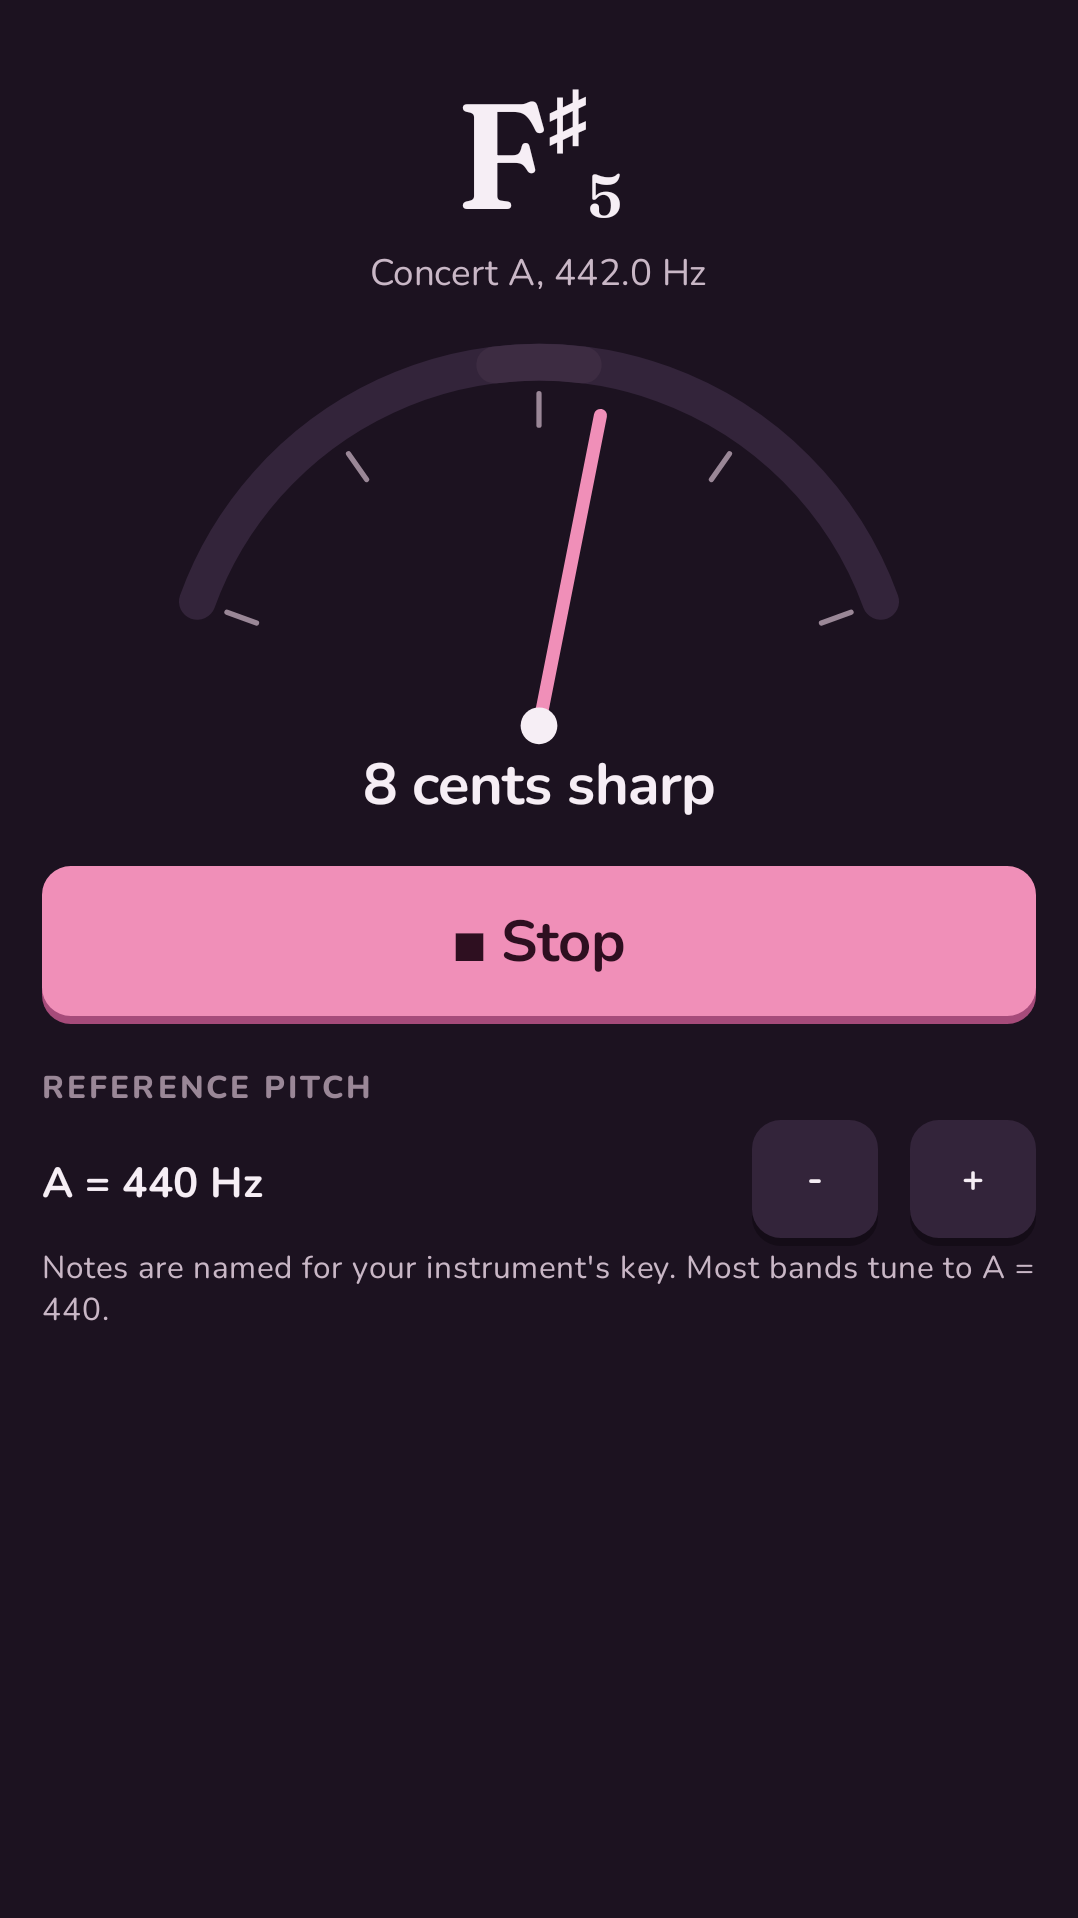
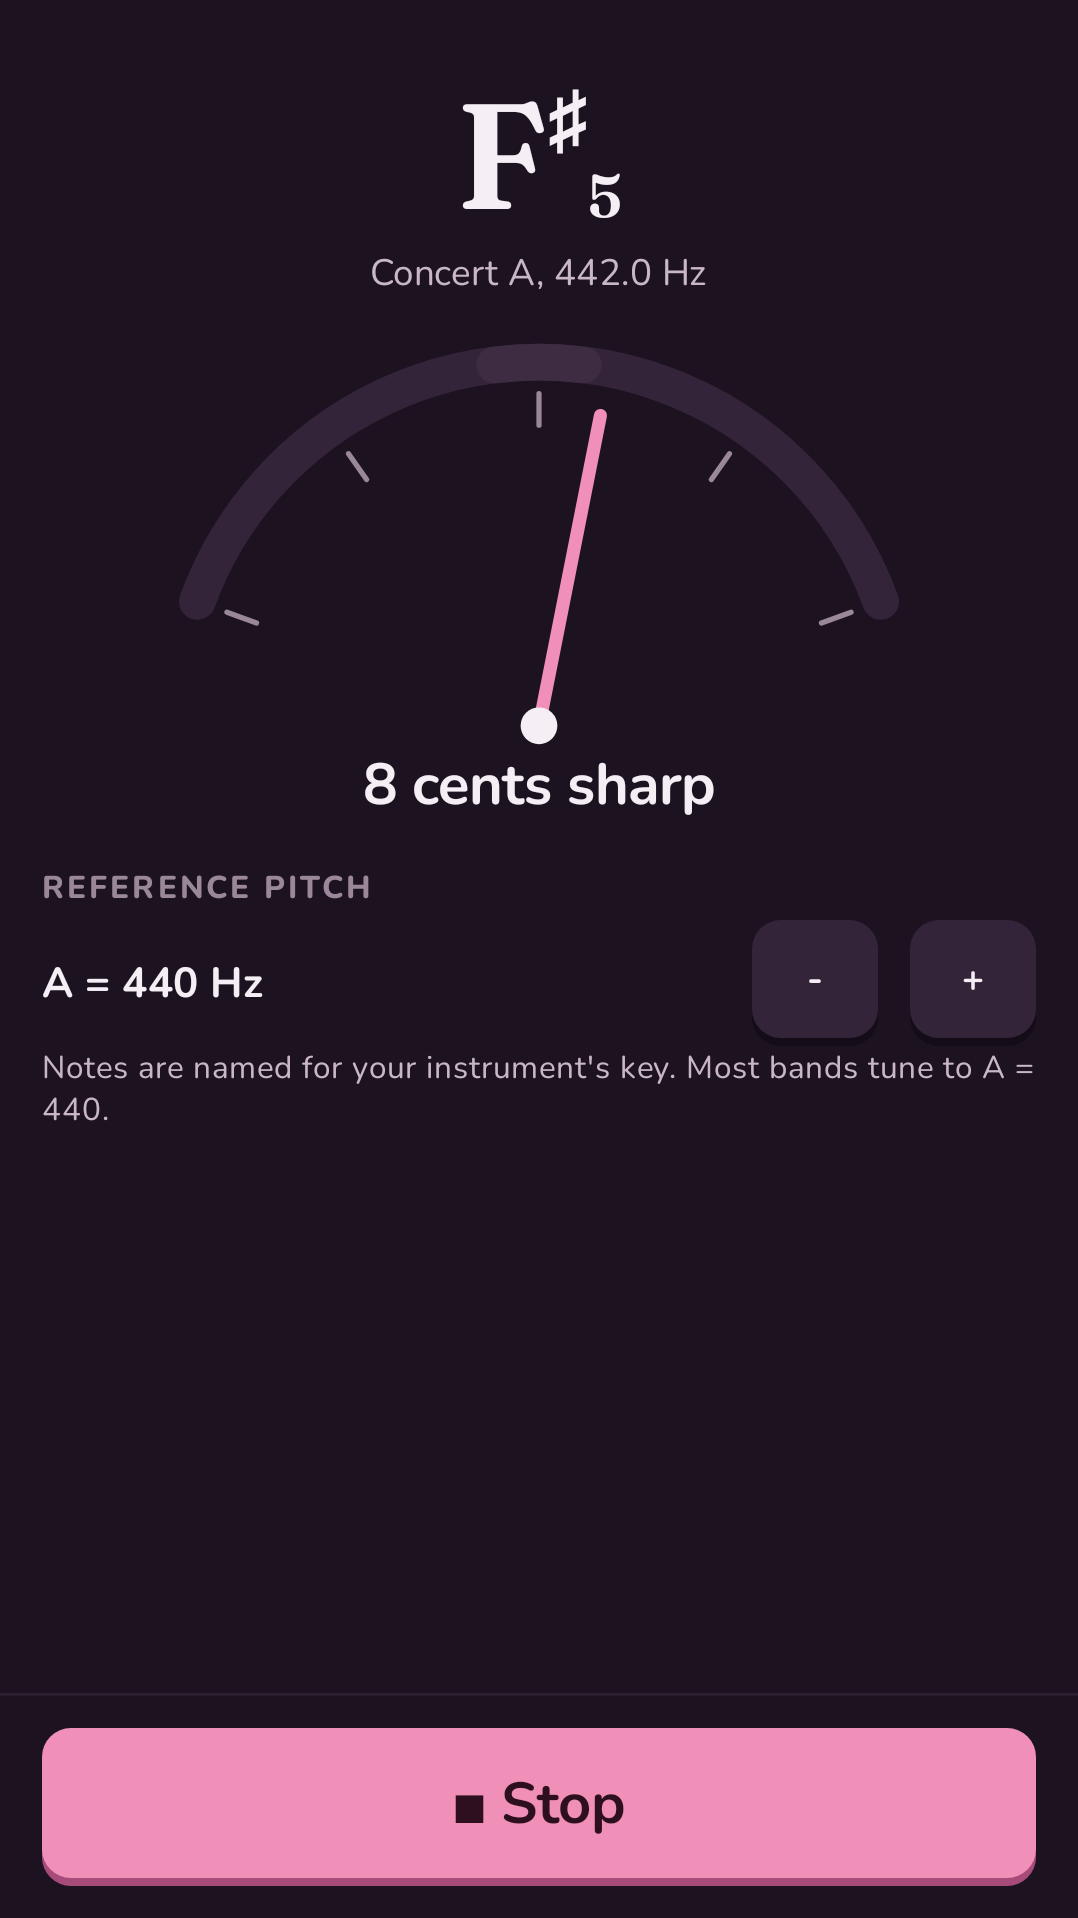
feat(app): fit flip phones' outer screens and keep start in reach

diff --git a/app/src/main/java/com/larakelley/woodshed/ui/browse/BrowseScreen.kt b/app/src/main/java/com/larakelley/woodshed/ui/browse/BrowseScreen.kt
@@ -2,6 +2,7 @@ package com.larakelley.woodshed.ui.browse
 
 import androidx.activity.compose.BackHandler
 import androidx.compose.foundation.Image
+import androidx.compose.foundation.background
 import androidx.compose.foundation.clickable
 import androidx.compose.foundation.horizontalScroll
 import androidx.compose.foundation.layout.Arrangement
@@ -11,6 +12,8 @@ import androidx.compose.foundation.layout.FlowRow
 import androidx.compose.foundation.layout.PaddingValues
 import androidx.compose.foundation.layout.Row
 import androidx.compose.foundation.layout.Spacer
+import androidx.compose.foundation.layout.calculateEndPadding
+import androidx.compose.foundation.layout.calculateStartPadding
 import androidx.compose.foundation.layout.fillMaxSize
 import androidx.compose.foundation.layout.fillMaxWidth
 import androidx.compose.foundation.layout.height
@@ -48,6 +51,9 @@ import androidx.compose.runtime.saveable.rememberSaveable
 import androidx.compose.runtime.setValue
 import androidx.compose.ui.Alignment
 import androidx.compose.ui.Modifier
+import androidx.compose.ui.platform.LocalDensity
+import androidx.compose.ui.platform.LocalLayoutDirection
+import androidx.compose.ui.platform.LocalWindowInfo
 import androidx.compose.ui.platform.testTag
 import androidx.compose.ui.res.painterResource
 import androidx.compose.ui.unit.dp
@@ -187,18 +193,20 @@ fun BrowseScreen(
     }
   }
 
+  // On a short screen, such as a flip phone's outer one, the title bar gives its room to the tab's content and its
+  // controls move to the end of the tab row.
+  val short = with(LocalDensity.current) { LocalWindowInfo.current.containerSize.height.toDp() } < SHORT_SCREEN_DP.dp
+  val barActions: @Composable () -> Unit = {
+    TranspositionPicker(state.transposition, state.myInstruments, onSelectTransposition)
+    if (settings != null) {
+      TextButton(onClick = {
+        settingsOpen = true
+      }, modifier = Modifier.testTag("open-settings")) { Text("⚙", style = MaterialTheme.typography.titleLarge) }
+    }
+  }
   Scaffold(
     modifier = modifier,
-    topBar = {
-      TopAppBar(title = { AppTitle() }, actions = {
-        TranspositionPicker(state.transposition, state.myInstruments, onSelectTransposition)
-        if (settings != null) {
-          TextButton(onClick = {
-            settingsOpen = true
-          }, modifier = Modifier.testTag("open-settings")) { Text("⚙", style = MaterialTheme.typography.titleLarge) }
-        }
-      })
-    },
+    topBar = { if (!short) TopAppBar(title = { AppTitle() }, actions = { barActions() }) },
   ) { padding ->
     if (settingsOpen && settings != null) {
       settings({ settingsOpen = false }, Modifier.padding(padding))
@@ -289,18 +297,27 @@ fun BrowseScreen(
       ExerciseDetail(exercise, onBack = { openExercise = null }, onEdit = { editingExercise = exercise.id }, modifier = Modifier.padding(padding))
       return@Scaffold
     }
-    Column(Modifier.padding(padding).fillMaxSize()) {
+    val playing = nowPlaying.filter { tabs[tab] !in it.hiddenOn }
+    val direction = LocalLayoutDirection.current
+    // The bottom inset goes under the playing bars, so their background runs on behind the gesture bar.
+    Column(
+      Modifier.padding(start = padding.calculateStartPadding(direction), top = padding.calculateTopPadding(), end = padding.calculateEndPadding(direction))
+        .fillMaxSize(),
+    ) {
       state.seedError?.let {
         Text("Could not load the bundled data: $it", color = MaterialTheme.colorScheme.error, modifier = Modifier.padding(16.dp))
       }
-      PrimaryScrollableTabRow(selectedTabIndex = tab, edgePadding = 8.dp) {
-        tabs.forEachIndexed { i, label ->
-          Tab(selected = tab == i, onClick = {
-            tabName = label
-          }, text = { Text("${TAB_EMOJI[label].orEmpty()} $label".trim()) }, modifier = Modifier.testTag("tab-$label"))
+      Row(verticalAlignment = Alignment.CenterVertically) {
+        PrimaryScrollableTabRow(selectedTabIndex = tab, edgePadding = 8.dp, modifier = Modifier.weight(1f)) {
+          tabs.forEachIndexed { i, label ->
+            Tab(selected = tab == i, onClick = {
+              tabName = label
+            }, text = { Text("${TAB_EMOJI[label].orEmpty()} $label".trim()) }, modifier = Modifier.testTag("tab-$label"))
+          }
         }
+        if (short) barActions()
       }
-      Column(Modifier.weight(1f)) {
+      Column(Modifier.weight(1f).padding(bottom = if (playing.isEmpty()) padding.calculateBottomPadding() else 0.dp)) {
         when (tabs[tab]) {
           "Practice" -> practiceTab?.invoke()
 
@@ -353,10 +370,17 @@ fun BrowseScreen(
           }
         }
       }
-      nowPlaying.filter { tabs[tab] !in it.hiddenOn }.forEach { it.bar() }
+      if (playing.isNotEmpty()) {
+        Column(Modifier.background(LocalCallie.current.surface).padding(bottom = padding.calculateBottomPadding())) {
+          playing.forEach { it.bar() }
+        }
+      }
     }
   }
 }
+
+/** Shorter than this, in dp, a screen drops the title bar, as a flip phone's outer screen is. */
+private const val SHORT_SCREEN_DP = 440
 
 /** Solos to transcribe on this tune; each opens in the Transcribe tab. */
 @Composable

diff --git a/app/src/main/java/com/larakelley/woodshed/ui/tools/ChangesScreen.kt b/app/src/main/java/com/larakelley/woodshed/ui/tools/ChangesScreen.kt
@@ -63,6 +63,7 @@ import com.larakelley.woodshed.theme.CallieChip
 import com.larakelley.woodshed.theme.Helper
 import com.larakelley.woodshed.theme.LocalCallie
 import com.larakelley.woodshed.theme.PillChoice
+import com.larakelley.woodshed.theme.PinnedAction
 import com.larakelley.woodshed.theme.SectionLabel
 import com.larakelley.woodshed.theme.StickerButton
 import com.larakelley.woodshed.theme.SwitchRow
@@ -283,7 +284,12 @@ internal fun ChangesPlayerScreen(
   val written = Math.floorMod(state.keyFor(keyId) + transposition.offset, 12)
   val bars = state.bars
   val playingBar = if (state.playing) state.bar else -1
-  Column(Modifier.fillMaxSize().verticalScroll(rememberScrollState()).padding(16.dp), verticalArrangement = Arrangement.spacedBy(8.dp)) {
+  PinnedAction(action = {
+    StickerButton(onClick = actions.toggle, modifier = Modifier.fillMaxWidth().height(60.dp).testTag("changes-toggle")) {
+      Text(if (state.playing) "◼ Stop" else "▶ Start", style = MaterialTheme.typography.titleLarge)
+    }
+  }, verticalArrangement = Arrangement.spacedBy(8.dp)) {
+    Spacer(Modifier.height(8.dp))
     Row(verticalAlignment = Alignment.CenterVertically) {
       BackButton(back, onBack, Modifier.weight(1f, fill = false))
       Spacer(Modifier.weight(1f))
@@ -315,9 +321,6 @@ internal fun ChangesPlayerScreen(
       Modifier.align(Alignment.CenterHorizontally).padding(vertical = 16.dp),
     )
     BarGrid(bars, playingBar, written)
-    StickerButton(onClick = actions.toggle, modifier = Modifier.fillMaxWidth().padding(top = 8.dp).height(60.dp).testTag("changes-toggle")) {
-      Text(if (state.playing) "◼ Stop" else "▶ Start", style = MaterialTheme.typography.titleLarge)
-    }
 
     SectionLabel("Tempo")
     Row(Modifier.fillMaxWidth(), verticalAlignment = Alignment.CenterVertically, horizontalArrangement = Arrangement.Center) {
@@ -447,7 +450,16 @@ private fun PatternScreen(
     return
   }
   val keys = move.keys()
-  Column(Modifier.fillMaxSize().verticalScroll(rememberScrollState()).padding(16.dp), verticalArrangement = Arrangement.spacedBy(8.dp)) {
+  PinnedAction(action = {
+    StickerButton(onClick = {
+      actions.load(source(pattern))
+      actions.toggle()
+      onOpen("run:${preset.id}")
+    }, modifier = Modifier.fillMaxWidth().height(60.dp).testTag("pattern-start")) {
+      Text("▶ Start", style = MaterialTheme.typography.titleLarge)
+    }
+  }, verticalArrangement = Arrangement.spacedBy(8.dp)) {
+    Spacer(Modifier.height(8.dp))
     Row(verticalAlignment = Alignment.CenterVertically) {
       BackButton("Back to changes", onBack, Modifier.weight(1f, fill = false))
       Spacer(Modifier.weight(1f))
@@ -496,13 +508,6 @@ private fun PatternScreen(
     SwitchRow("Keep going", state.keepGoing, actions.setKeepGoing, helper = "Start around again after all the keys")
     SectionLabel("The keys, in order")
     BarGrid(keys.map { Bar(listOf(ProgressionChord(it, if (unit == PatternUnit.ONE_CHORD) chord else ChordQuality.MAJOR))) }, -1, written)
-    StickerButton(onClick = {
-      actions.load(source(pattern))
-      actions.toggle()
-      onOpen("run:${preset.id}")
-    }, modifier = Modifier.fillMaxWidth().padding(top = 8.dp).height(60.dp).testTag("pattern-start")) {
-      Text("▶ Start", style = MaterialTheme.typography.titleLarge)
-    }
     Helper("Tempo, click and range are set while it plays.", Modifier.align(Alignment.CenterHorizontally))
   }
 }

diff --git a/app/src/main/java/com/larakelley/woodshed/theme/Callie.kt b/app/src/main/java/com/larakelley/woodshed/theme/Callie.kt
@@ -1,11 +1,15 @@
 package com.larakelley.woodshed.theme
 
+import androidx.compose.foundation.ScrollState
 import androidx.compose.foundation.horizontalScroll
 import androidx.compose.foundation.interaction.MutableInteractionSource
 import androidx.compose.foundation.layout.Arrangement
+import androidx.compose.foundation.layout.Box
 import androidx.compose.foundation.layout.Column
+import androidx.compose.foundation.layout.ColumnScope
 import androidx.compose.foundation.layout.PaddingValues
 import androidx.compose.foundation.layout.Row
+import androidx.compose.foundation.layout.fillMaxSize
 import androidx.compose.foundation.layout.fillMaxWidth
 import androidx.compose.foundation.layout.height
 import androidx.compose.foundation.layout.heightIn
@@ -14,6 +18,7 @@ import androidx.compose.foundation.rememberScrollState
 import androidx.compose.foundation.selection.toggleable
 import androidx.compose.foundation.shape.RoundedCornerShape
 import androidx.compose.foundation.verticalScroll
+import androidx.compose.material3.HorizontalDivider
 import androidx.compose.material3.MaterialTheme
 import androidx.compose.material3.Switch
 import androidx.compose.material3.SwitchDefaults
@@ -159,5 +164,30 @@ fun EmptyState(
         Text(action, style = MaterialTheme.typography.labelLarge)
       }
     }
+  }
+}
+
+/**
+ * A tool's screen: its controls scroll, and [action], its start or stop button, stays at the bottom in reach,
+ * however far down the controls are scrolled.
+ */
+@Composable
+fun PinnedAction(
+  action: @Composable () -> Unit,
+  modifier: Modifier = Modifier,
+  scroll: ScrollState = rememberScrollState(),
+  horizontalAlignment: Alignment.Horizontal = Alignment.Start,
+  verticalArrangement: Arrangement.Vertical = Arrangement.Top,
+  content: @Composable ColumnScope.() -> Unit,
+) {
+  Column(modifier.fillMaxSize()) {
+    Column(
+      Modifier.weight(1f).verticalScroll(scroll).padding(horizontal = 16.dp).padding(bottom = 16.dp),
+      verticalArrangement = verticalArrangement,
+      horizontalAlignment = horizontalAlignment,
+      content = content,
+    )
+    HorizontalDivider()
+    Box(Modifier.fillMaxWidth().padding(horizontal = 16.dp, vertical = 12.dp)) { action() }
   }
 }

diff --git a/app/src/main/java/com/larakelley/woodshed/ui/tools/TunerScreen.kt b/app/src/main/java/com/larakelley/woodshed/ui/tools/TunerScreen.kt
@@ -46,6 +46,7 @@ import com.larakelley.woodshed.domain.Transposition
 import com.larakelley.woodshed.theme.Helper
 import com.larakelley.woodshed.theme.LocalCallie
 import com.larakelley.woodshed.theme.PRESS_SPRING
+import com.larakelley.woodshed.theme.PinnedAction
 import com.larakelley.woodshed.theme.SectionLabel
 import com.larakelley.woodshed.theme.StickerButton
 import com.larakelley.woodshed.theme.neutralSticker
@@ -80,10 +81,11 @@ fun TunerScreen(state: TunerState, transposition: Transposition, actions: TunerA
   val reading = state.reading
   val written = reading?.writtenFor(transposition)
 
-  Column(
-    Modifier.fillMaxSize().verticalScroll(rememberScrollState()).padding(horizontal = 16.dp).padding(bottom = 24.dp),
-    horizontalAlignment = Alignment.CenterHorizontally,
-  ) {
+  PinnedAction(action = {
+    StickerButton(onClick = { if (state.listening) actions.stop() else listen() }, modifier = Modifier.fillMaxWidth().height(60.dp).testTag("tuner-toggle")) {
+      Text(if (state.listening) "◼ Stop" else "🎤 Listen", style = MaterialTheme.typography.titleLarge)
+    }
+  }, horizontalAlignment = Alignment.CenterHorizontally) {
     Spacer(Modifier.height(24.dp))
     Text(written?.let(::noteText) ?: buildAnnotatedString { append("–") }, style = MaterialTheme.typography.displayLarge, modifier = Modifier.testTag("note"))
     Text(
@@ -106,10 +108,6 @@ fun TunerScreen(state: TunerState, transposition: Transposition, actions: TunerA
       style = MaterialTheme.typography.titleLarge,
       modifier = Modifier.testTag("tuning"),
     )
-    Spacer(Modifier.height(16.dp))
-    StickerButton(onClick = { if (state.listening) actions.stop() else listen() }, modifier = Modifier.fillMaxWidth().height(60.dp).testTag("tuner-toggle")) {
-      Text(if (state.listening) "◼ Stop" else "🎤 Listen", style = MaterialTheme.typography.titleLarge)
-    }
     when {
       denied -> Text(
         "The tuner needs the microphone. Allow it for Woodshed in your phone's settings, then tap Listen.",

diff --git a/app/src/main/java/com/larakelley/woodshed/ui/tools/MetronomeScreen.kt b/app/src/main/java/com/larakelley/woodshed/ui/tools/MetronomeScreen.kt
@@ -42,6 +42,7 @@ import com.larakelley.woodshed.theme.CallieChip
 import com.larakelley.woodshed.theme.LocalCallie
 import com.larakelley.woodshed.theme.PRESS_SPRING
 import com.larakelley.woodshed.theme.PillChoice
+import com.larakelley.woodshed.theme.PinnedAction
 import com.larakelley.woodshed.theme.SectionLabel
 import com.larakelley.woodshed.theme.StickerButton
 import com.larakelley.woodshed.theme.SwitchRow
@@ -63,7 +64,11 @@ internal val METERS = listOf(2, 3, 4, 5, 6, 7)
 fun MetronomeScreen(state: MetronomeState, actions: MetronomeActions) {
   val callie = LocalCallie.current
   val taps = remember { TapTempo() }
-  Column(Modifier.fillMaxSize().verticalScroll(rememberScrollState()).padding(horizontal = 16.dp).padding(bottom = 24.dp)) {
+  PinnedAction(action = {
+    StickerButton(onClick = actions.toggle, modifier = Modifier.fillMaxWidth().height(60.dp).testTag("metronome-toggle")) {
+      Text(if (state.running) "◼ Stop" else "▶ Start", style = MaterialTheme.typography.titleLarge)
+    }
+  }) {
     Spacer(Modifier.height(16.dp))
     Row(Modifier.fillMaxWidth(), verticalAlignment = Alignment.CenterVertically, horizontalArrangement = Arrangement.Center) {
       RoundSticker("-") { actions.setBpm(state.bpm - 1) }
@@ -74,9 +79,6 @@ fun MetronomeScreen(state: MetronomeState, actions: MetronomeActions) {
       RoundSticker("+") { actions.setBpm(state.bpm + 1) }
     }
     BeatDots(state, Modifier.align(Alignment.CenterHorizontally).padding(vertical = 16.dp))
-    StickerButton(onClick = actions.toggle, modifier = Modifier.fillMaxWidth().height(60.dp).testTag("metronome-toggle")) {
-      Text(if (state.running) "◼ Stop" else "▶ Start", style = MaterialTheme.typography.titleLarge)
-    }
     Slider(
       value = state.bpm.toFloat(),
       onValueChange = { actions.setBpm(it.toInt()) },

diff --git a/app/src/main/java/com/larakelley/woodshed/ui/tools/DroneScreen.kt b/app/src/main/java/com/larakelley/woodshed/ui/tools/DroneScreen.kt
@@ -32,6 +32,7 @@ import com.larakelley.woodshed.theme.CallieChip
 import com.larakelley.woodshed.theme.Helper
 import com.larakelley.woodshed.theme.LocalCallie
 import com.larakelley.woodshed.theme.PillChoice
+import com.larakelley.woodshed.theme.PinnedAction
 import com.larakelley.woodshed.theme.SectionLabel
 import com.larakelley.woodshed.theme.StickerButton
 
@@ -54,7 +55,11 @@ private fun noteName(pitchClass: Int) = Key(pitchClass, minor = false).displayNa
 fun DroneScreen(state: DroneState, transposition: Transposition, a4: Int, actions: DroneActions) {
   val callie = LocalCallie.current
   val written = Math.floorMod(state.pitchClass + transposition.offset, 12)
-  Column(Modifier.fillMaxSize().verticalScroll(rememberScrollState()).padding(horizontal = 16.dp).padding(bottom = 24.dp)) {
+  PinnedAction(action = {
+    StickerButton(onClick = actions.toggle, modifier = Modifier.fillMaxWidth().height(60.dp).testTag("drone-toggle")) {
+      Text(if (state.playing) "◼ Stop" else "▶ Start drone", style = MaterialTheme.typography.titleLarge)
+    }
+  }) {
     Spacer(Modifier.height(24.dp))
     val name = noteName(written)
     Text(
@@ -70,10 +75,6 @@ fun DroneScreen(state: DroneState, transposition: Transposition, a4: Int, action
       color = callie.textMuted,
       modifier = Modifier.align(Alignment.CenterHorizontally),
     )
-    Spacer(Modifier.height(16.dp))
-    StickerButton(onClick = actions.toggle, modifier = Modifier.fillMaxWidth().height(60.dp).testTag("drone-toggle")) {
-      Text(if (state.playing) "◼ Stop" else "▶ Start drone", style = MaterialTheme.typography.titleLarge)
-    }
 
     SectionLabel("Note")
     FlowRow(horizontalArrangement = Arrangement.spacedBy(8.dp), verticalArrangement = Arrangement.spacedBy(2.dp)) {

diff --git a/app/src/test/java/com/larakelley/woodshed/ui/browse/BrowseScreenTest.kt b/app/src/test/java/com/larakelley/woodshed/ui/browse/BrowseScreenTest.kt
@@ -281,4 +281,24 @@ class BrowseScreenTest {
     // No instrument of mine reads in Eb, so it keeps its examples.
     compose.onNodeWithText(Transposition.Eb.examples).assertExists()
   }
+
+  @Test
+  @Config(qualifiers = "w360dp-h400dp")
+  fun aFlipPhonesOuterScreenGivesTheTitleBarsRoomToTheTab() {
+    var opened = false
+    compose.setContent {
+      BrowseScreen(BrowseState(Transposition.C), {}, settings = { _, _ -> opened = true }, tunerTab = { Text("tuner screen") })
+    }
+    // No title bar, but its key picker and settings are still at hand.
+    compose.onNodeWithText("Woodshed").assertDoesNotExist()
+    compose.onNodeWithTag("transposition-picker").assertExists()
+    compose.onNodeWithTag("open-settings").performClick()
+    compose.runOnIdle { assertTrue(opened) }
+  }
+
+  @Test
+  fun aTallScreenKeepsTheTitleBar() {
+    compose.setContent { BrowseScreen(BrowseState(Transposition.C), {}) }
+    compose.onNodeWithText("Woodshed").assertExists()
+  }
 }

diff --git a/app/src/test/java/com/larakelley/woodshed/ui/tools/ChangesScreenTest.kt b/app/src/test/java/com/larakelley/woodshed/ui/tools/ChangesScreenTest.kt
@@ -88,7 +88,7 @@ class ChangesScreenTest {
     }
     compose.onNodeWithTag("changes-circle").performScrollTo().performClick()
     compose.onNodeWithText("Bb7").assertExists()
-    compose.onNodeWithTag("pattern-start").performScrollTo().performClick()
+    compose.onNodeWithTag("pattern-start").performClick()
     assertTrue(calls.toString(), calls.size == 2 && calls[0].startsWith("pattern:circle:") && calls[1] == "start")
   }
 

diff --git a/CHANGELOG.md b/CHANGELOG.md
@@ -14,6 +14,11 @@ release's GitHub notes, and a release refuses to go out without one.
 
 ### Changed
 
+- **tools:** Start and Stop on the drone, metronome, tuner and Changes stay
+  at the bottom of the screen, in reach however far you scroll.
+- **app:** runs on a flip phone's outer screen: on a short screen the title
+  bar gives its room to the tab, with the key and ⚙ at the end of the tabs.
+  The bar for what's playing runs on behind the gesture bar.
 - **tunes:** the key picker names the instruments you play under each key,
   such as "Tenor sax, trumpet" under Bb, rather than fixed examples. Keys
   none of yours read in keep the examples.
